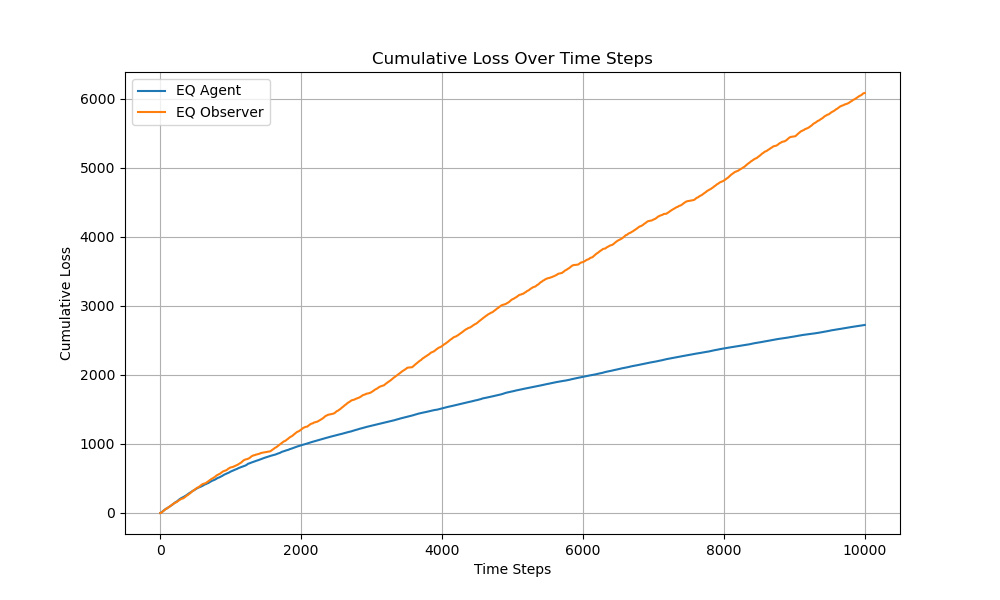
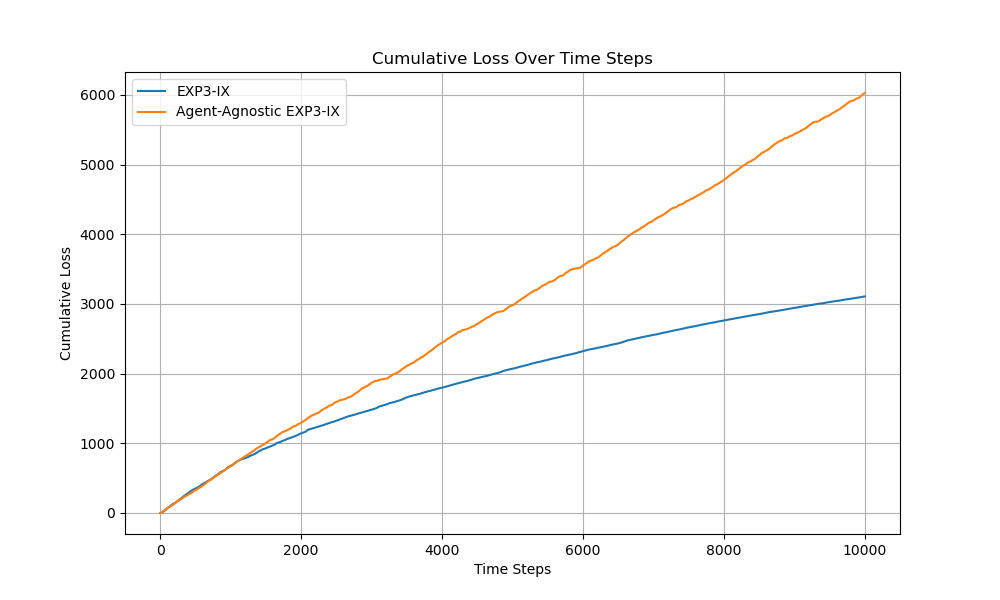
training updates

diff --git a/RL/model-implementation/main.py b/RL/model-implementation/main.py
@@ -139,5 +139,5 @@ lossEQobserver = EQasObserver(total_iteration=10000)
 
 
 losses_list = [lossEQAgent, lossEQobserver]
-names_list = ["EQ Agent", "EQ Observer"]
+names_list = ["EXP3-IX", "Agent-Agnostic EXP3-IX"]
 plot_graph(losses_list, names_list)
